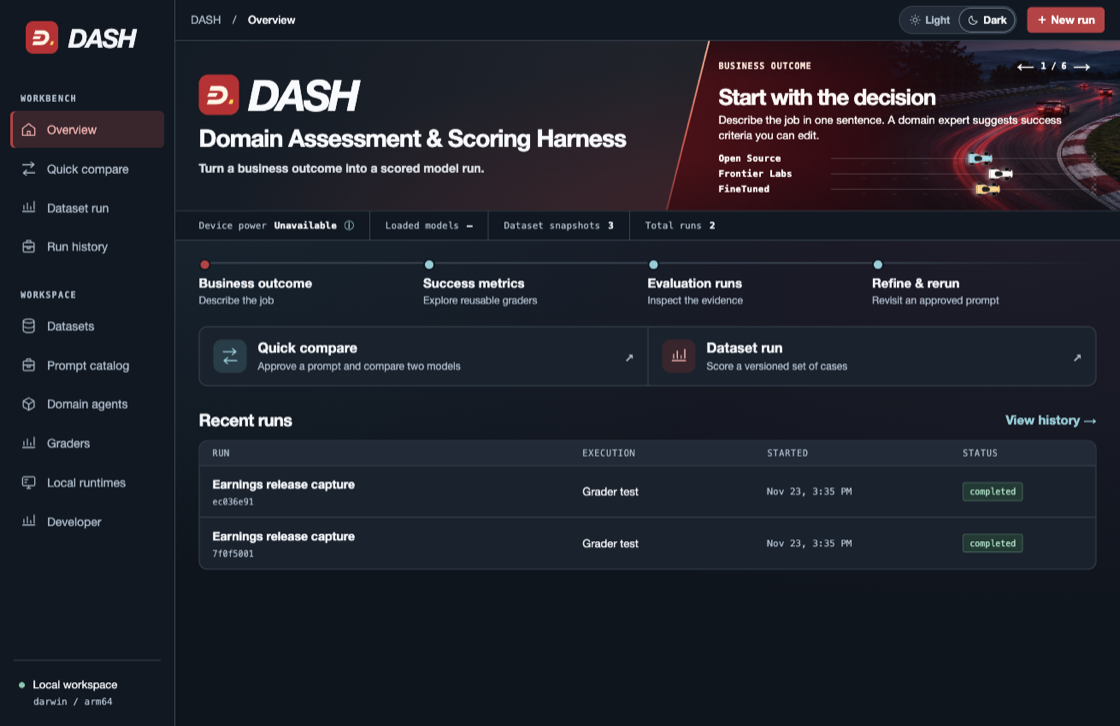
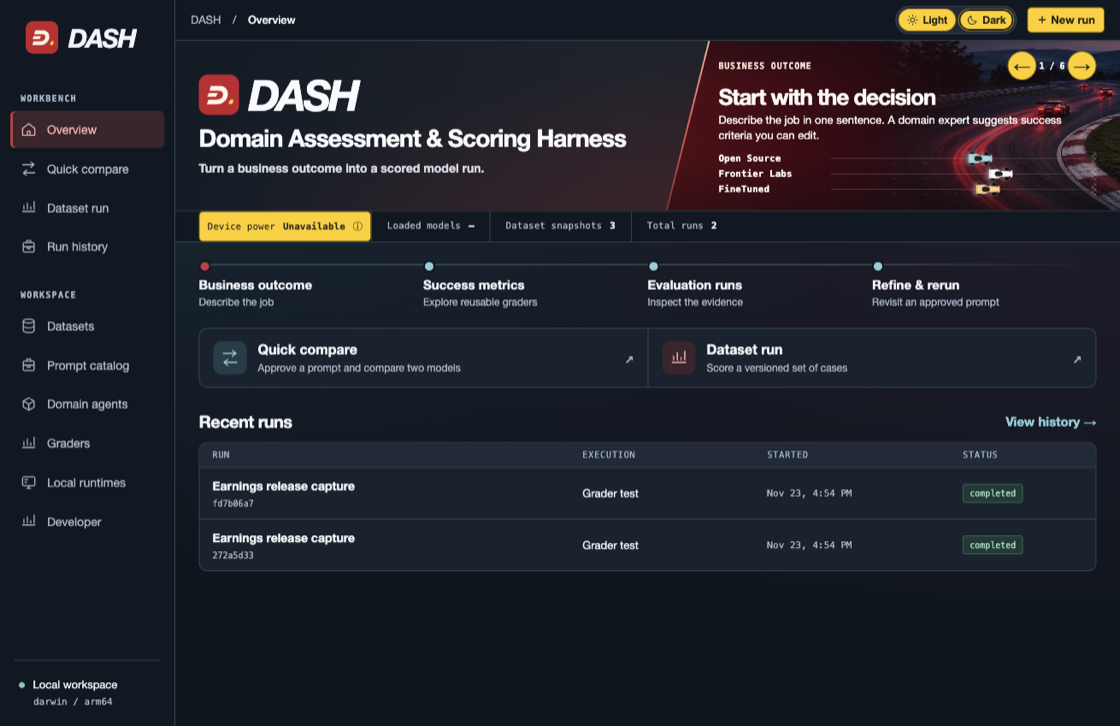
design: use racing yellow for every DASH action control (#8)

diff --git a/dash-desktop/ui/style.css b/dash-desktop/ui/style.css
@@ -8,7 +8,13 @@
   --border: light-dark(#cedbe4, #364451);
   --control-border: light-dark(#8597a7, #698092);
   --brand: light-dark(#be2446, #c13940);
-  --brand-hover: light-dark(#9e1939, #b12b32);
+  --button-fill: #ffcf00;
+  --button-hover: #ffdf55;
+  --button-active: #e8b700;
+  --button-ink: #252116;
+  --button-border: #806300;
+  --button-disabled: #ded4b0;
+  --button-disabled-ink: #534c38;
   --accent: light-dark(#276579, #88cfda);
   --accent-strong: light-dark(#164d61, #ace4eb);
   --selected: light-dark(#e4f2f5, #233d49);
@@ -59,9 +65,7 @@ textarea {
 }
 button,
 .button {
-  border: 1px solid var(--control-border);
-  color: var(--ink);
-  background: var(--surface-soft);
+  border: 1px solid var(--button-border);
   border-radius: 5px;
   min-height: 37px;
   padding: 8px 14px;
@@ -73,22 +77,25 @@ button,
   justify-content: center;
   gap: 6px;
 }
-button:hover,
-.button:hover {
-  background-color: var(--selected);
+button, .button, :where(#appearance label > span, .wf-domain label > span) {
+  color: var(--button-ink);
+  background-color: var(--button-fill);
 }
-button:disabled {
-  opacity: 0.5;
-  cursor: default;
+:where(#appearance label > span, .wf-domain label > span) { border: 1px solid var(--button-border); }
+button:enabled:hover, .button:hover, :where(#appearance, .wf-domain) label:hover input:enabled + span {
+  background-color: var(--button-hover);
 }
-.yellow {
-  background: var(--brand);
-  color: #fff;
-  border-color: transparent;
+button:enabled:active, .button:active, :where(#appearance, .wf-domain) label:active input:enabled + span {
+  background-color: var(--button-active);
 }
-.yellow:hover, .go-button:hover:enabled { background: var(--brand-hover); color: white; }
-.quiet {
-  background: transparent;
+button[aria-pressed="true"], :where(#appearance, .wf-domain) input:checked + span {
+  box-shadow: inset 0 0 0 2px currentColor;
+}
+button:disabled, :where(#appearance, .wf-domain) input:disabled + span {
+  color: var(--button-disabled-ink);
+  background-color: var(--button-disabled);
+  border-color: var(--button-disabled-ink);
+  cursor: not-allowed;
 }
 .link {
   color: var(--accent);
@@ -205,15 +212,10 @@ header {
 #appearance label { position: relative; cursor: pointer; }
 #appearance label > span {
   display: flex; align-items: center; justify-content: center; gap: 5px;
-  min-height: 27px; padding: 0 9px; border-radius: 16px; color: var(--muted);
+  min-height: 27px; padding: 0 9px; border-radius: 16px;
 }
 #appearance .icon { width: 14px; height: 14px; }
 #appearance b { font-size: 12px; font-weight: 550; }
-#appearance label:hover span { color: var(--ink); }
-#appearance input:checked + span {
-  background: var(--panel); color: var(--ink); box-shadow: 0 0 0 1px var(--control-border);
-}
-#appearance input:focus-visible + span { outline: 2px solid var(--focus); outline-offset: 1px; }
 @media (max-width: 680px) {
   .header-actions { gap: 6px; }
   #appearance b { position: absolute; clip-path: inset(50%); width: 1px; height: 1px; overflow: hidden; }
@@ -521,7 +523,6 @@ details summary {
   border-radius: 6px;
   z-index: 5;
 }
-button:focus-visible,
 a:focus-visible,
 select:focus-visible,
 textarea:focus-visible,
@@ -529,6 +530,14 @@ input:focus-visible,
 summary:focus-visible {
   outline: 2px solid var(--focus);
   outline-offset: 3px;
+}
+button:focus-visible, a.button:focus-visible, :where(#appearance, .wf-domain) input:focus-visible + span {
+  outline: 2px solid #252116;
+  outline-offset: 1px;
+  box-shadow: 0 0 0 5px #fff, inset 0 0 0 1px var(--button-ink);
+}
+button[aria-pressed="true"]:focus-visible, :where(#appearance, .wf-domain) input:checked:focus-visible + span {
+  box-shadow: 0 0 0 5px #fff, inset 0 0 0 2px var(--button-ink);
 }
 a.link:hover {
   text-decoration: underline;
@@ -644,15 +653,14 @@ progress::-webkit-progress-value {background:var(--brand);border-radius:2px}
 .grid-slot:not(.occupied) .grid-car {opacity:.27}
 .remove-model {margin-left:auto;min-height:36px;min-width:36px;padding:0}.launch-strip {align-items:stretch;gap:14px;margin:15px 0}
 .launch-strip>.field {flex:1;margin:0}.launch-strip textarea {min-height:80px}.launch-side {width:165px;display:grid;gap:6px}.launch-side .field {margin:0}
-.go-button {min-height:44px;color:white;background:var(--brand);border:0;font:italic 850 21px/1 Arial;letter-spacing:.03em}
-.go-button:disabled {background:light-dark(#e4eaee,#2b3844);color:var(--muted);opacity:1}
+.go-button {min-height:44px;font:italic 850 21px/1 Arial;letter-spacing:.03em}
 .roster-group {display:grid;grid-template-columns:110px 1fr;border-top:1px solid var(--border);padding:9px 0;gap:12px}
 .group-name {align-self:start;gap:7px;padding-block:12px}.group-name strong {font-size:13px}.group-name small {font:11px var(--mono);color:var(--muted)}
 .roster-list {display:grid;grid-template-columns:repeat(auto-fill,minmax(min(195px,100%),1fr));gap:5px}
-.roster-model {min-width:0;min-height:54px;text-align:left;justify-content:flex-start;background:var(--panel);border:1px solid var(--border);border-radius:7px;padding:6px 9px;gap:9px}
+.roster-model {min-width:0;min-height:54px;text-align:left;justify-content:flex-start;border-radius:7px;padding:6px 9px;gap:9px}
 .roster-model .model-logo {width:28px;height:28px;border-radius:4px}.roster-model .model-logo img {width:21px;height:21px}
-.roster-model b {font-size:12px;line-height:1.2}.roster-model small {font-size:10px;margin-top:3px}.roster-model i {margin-left:auto}
-.roster-model[aria-pressed=true]{background:var(--selected);border-color:var(--accent);color:var(--accent-strong)}.roster-empty {align-self:center}
+.roster-model b {font-size:12px;line-height:1.2}.roster-model small {font-size:10px;margin-top:3px;color:inherit}.roster-model i {margin-left:auto}
+.roster-empty {align-self:center}
 .visually-hidden {position:absolute;clip-path:inset(50%);width:1px;height:1px;overflow:hidden}
 @media(max-width:790px){.starting-grid{grid-template-columns:1fr}.roster-group{grid-template-columns:1fr;gap:0}.group-name{padding:2px 0 6px}}
 @media(max-width:680px){.launch-strip{flex-direction:column}.launch-side{width:100%;grid-template-columns:1fr 90px}}

diff --git a/dash-desktop/ui/prompt-guide.css b/dash-desktop/ui/prompt-guide.css
@@ -4,18 +4,16 @@
 .prompt-composer .field>span {padding:10px 13px 0;font-size:13px;color:var(--ink)}
 .prompt-composer textarea {width:100%;min-height:85px;border:0;border-radius:0;background:transparent;outline-offset:-3px;resize:vertical;padding:7px 13px 12px;line-height:1.5}
 .compose-footer {display:flex;gap:10px;align-items:flex-start;justify-content:space-between;border-top:1px solid var(--border);padding:6px 7px 6px 12px}
-.composer-actions .go-button {flex:0 0 85px;min-height:38px;align-self:start;color:white}
-.composer-actions .go-button:disabled {color:var(--muted)}
+.composer-actions .go-button {flex:0 0 85px;min-height:38px;align-self:start}
 .prompt-guide {flex:1;min-width:0;align-self:center}
-.guide-tools>button,.guide-response button,.prompt-guide [data-guide=retry] {background:none;border:0;min-height:32px;color:var(--ink);padding:3px 0;font-size:12px}
-.guide-tools [aria-pressed=false] {color:var(--muted)}
-.guide-tools .icon {width:15px;height:15px;color:var(--accent)}
-.guide-tools span,.guide-source {font:10px/1.4 var(--mono);color:var(--muted)}
-.guide-tools span {border-left:1px solid var(--border);padding-left:7px}
+.guide-tools>button,.guide-response button,.prompt-guide [data-guide=retry] {min-height:32px;padding:3px 8px;font-size:12px}
+.guide-tools .icon {width:15px;height:15px}
+.guide-tools span,.guide-source {font:10px/1.4 var(--mono)}
+.guide-source {color:var(--muted)}
+.guide-tools span {border-left:1px solid var(--button-border);padding-left:7px}
 .guide-response {padding:3px 0 5px}
 .guide-response p {margin:4px 0 6px;color:var(--ink);font-size:14px;line-height:1.45}
-.guide-response [data-guide=apply],.guide-response [data-guide=answer],.prompt-guide [data-guide=retry] {color:var(--accent)}
-.guide-response [data-guide=dismiss] {margin-left:10px;color:var(--muted)}
+.guide-response [data-guide=dismiss] {margin-left:10px}
 .guide-answer {display:block}
 .guide-answer input {width:100%;border:1px solid var(--control-border);border-radius:3px;background:var(--surface-soft);color:var(--ink);padding:8px}
 #guide-body small {font-size:12px;color:var(--muted)}
@@ -27,8 +25,7 @@ body:has(.compare-console) #screen {max-width:none;margin:0;padding:18px clamp(1
 .compare-console #quick-models {margin:0}
 body:has(.compare-console) #setup {padding:0}
 .model-picker .grid-slot {padding:10px 13px;min-height:64px}
-.choose-slot {border:0;background:none;padding:0;min-height:30px;font-size:16px;font-weight:600;line-height:1.2;color:var(--ink);gap:8px}
-.choose-slot span {color:var(--accent)}
+.choose-slot {padding:0 6px;min-height:30px;font-size:16px;font-weight:600;line-height:1.2;gap:8px}
 .compare-workarea {display:grid;grid-template-columns:minmax(245px, .82fr) minmax(0,1.18fr);gap:clamp(12px,1.5vw,22px);align-items:start;margin-top:18px;border-top:1px solid var(--border);padding-top:14px}
 .compare-roster,.compare-draft {min-width:0}
 .compare-roster .field {margin:0 0 8px}

diff --git a/dash-desktop/ui/workflow.css b/dash-desktop/ui/workflow.css
@@ -24,9 +24,6 @@ body:has(.wf-page) #screen {margin:0;max-width:none;padding:clamp(16px,2.2vw,32p
 .wf-panel .field input,.wf-panel .field textarea {width:100%;padding:11px 12px}
 .wf-measures {margin:0 0 16px;padding:13px 0 0;border-top:1px solid var(--border)}
 .wf-measure-head {display:flex;align-items:center;justify-content:space-between;flex-wrap:wrap;gap:8px;margin:0 0 10px}
-.wf-measure-head button {color:var(--accent-strong);border-color:light-dark(#8bb4c0,#5e8594);background:var(--selected)}
-.wf-measure-head button:hover:enabled {background:light-dark(#cce4eb,#314d5b)}
-.wf-measure-head button:focus-visible {outline:2px solid var(--focus);outline-offset:2px}
 .wf-measure-grid {display:grid;grid-template-columns:repeat(auto-fit,minmax(min(100%,245px),1fr));gap:12px}
 .wf-measures .field {margin:0}
 .wf-measures .wf-hint {display:block;margin-top:6px}
@@ -40,9 +37,7 @@ body:has(.wf-page) #screen {margin:0;max-width:none;padding:clamp(16px,2.2vw,32p
 .wf-domain>div {display:flex;gap:6px;flex-wrap:wrap}
 .wf-domain label {cursor:pointer;position:relative}
 .wf-domain input {position:absolute;opacity:0;width:1px;height:1px}
-.wf-domain span {display:inline-flex;align-items:center;min-height:36px;padding:6px 12px;border:1px solid var(--control-border);border-radius:4px;color:var(--muted);font-size:13px}
-.wf-domain input:checked+span {color:var(--ink);background:var(--selected);border-color:var(--accent)}
-.wf-domain input:focus-visible+span {outline:2px solid var(--focus);outline-offset:2px}
+.wf-domain span {display:inline-flex;align-items:center;min-height:36px;padding:6px 12px;border-radius:4px;font-size:13px}
 .wf-actions {border-top:1px solid var(--border);padding-top:14px;margin-top:6px}
 .wf-hint,.wf-progress,.wf-actions small,.wf-approved small,.wf-run-plan>small,.wf-options small {color:var(--muted);font-size:13px;line-height:1.5}
 .wf-error {padding:12px 14px;background:var(--danger-bg);border-left:3px solid var(--danger);color:var(--danger-ink);margin-bottom:12px;white-space:pre-wrap;overflow-wrap:anywhere}
@@ -85,7 +80,7 @@ body:has(.wf-page) #screen {margin:0;max-width:none;padding:clamp(16px,2.2vw,32p
 }
 .wf-examples {display:flex;align-items:center;gap:6px;flex-wrap:wrap;margin:-4px 0 18px}
 .wf-examples small {font-size:12px;color:var(--muted);margin-right:4px}
-.wf-examples button {padding:4px 10px;min-height:30px;font-size:12px;background:transparent;color:var(--accent);border-color:var(--control-border)}
+.wf-examples button {padding:4px 10px;min-height:30px;font-size:12px}
 .wf-page .wf-role-grid .wf-options-body {padding:8px 0 0}
 @media (pointer:coarse) {.wf-examples button {min-height:44px}}
 .wf-panel #wf-prompt,.wf-panel #wf-review-metrics {field-sizing:content;min-height:5.4rem;max-height:min(40vh,22rem)}

diff --git a/dash-desktop/ui/overview.css b/dash-desktop/ui/overview.css
@@ -91,23 +91,15 @@ body:has(.overview) .desk > header .button {
   flex: none;
   display: flex;
   align-items: center;
-  gap: 1px;
+  gap: 3px;
 }
 .capability-controls button {
   width: 34px;
   height: 34px;
   min-height: 0;
   padding: 0;
-  color: var(--track-paper);
-  background: transparent;
-  border: 1px solid transparent;
   border-radius: 50%;
   font: 500 20px/1 Arial, sans-serif;
-}
-.capability-controls button:hover, .capability-controls button:focus-visible {
-  background: #ffffff12;
-  border-color: #ffffff64;
-  outline-color: var(--track-paper);
 }
 .capability-position { font: 550 10px/1 var(--mono); white-space: nowrap; color: var(--track-paper); }
 .capability-controls [data-carousel="playback"] span {
@@ -258,14 +250,14 @@ body:has(.overview) .desk > header .button {
   padding: 9px 18px;
   border-inline-start: 1px solid var(--border);
   font: 11px/1.4 var(--mono);
-  color: var(--muted);
 }
-.timing-strip > a:hover, .device-stat:hover { background: var(--selected); }
+.timing-strip > a { color: var(--muted); }
+.timing-strip > a:hover { background: var(--selected); }
 .timing-strip .device-stat {
-  height: 100%; padding-left: 0; min-height: 0; background: transparent;
-  border: 0; border-radius: 0; anchor-name: --device-stat;
+  height: 100%; min-height: 0; padding-inline: 9px;
+  border-inline-start-color: var(--button-border); anchor-name: --device-stat;
 }
-.device-stat span { color: var(--accent); }
+.timing-strip .device-stat strong { color: inherit; }
 #device-details {
   position: fixed; inset: auto; position-anchor: --device-stat; left: anchor(left); top: anchor(bottom);
   width: min(305px, calc(100vw - 78px)); margin: 0; padding: 14px 16px;

diff --git a/dash-desktop/ui/evaluation.css b/dash-desktop/ui/evaluation.css
@@ -5,7 +5,6 @@
 .qc-grading small,.qc-grade-choice small,.er-metric-head small,.er-score-line small,.er-policy small {display:block;color:var(--muted);font-size:12px;line-height:1.5}
 .qc-grading .link {font-size:13px}
 .qc-outcome {background:var(--surface-soft);border-left:3px solid var(--accent);margin-top:13px;padding:12px 14px}
-.qc-outcome [aria-pressed=true] {border-color:var(--accent);color:var(--accent-strong)}
 .qc-rubric-options,.qc-saved,.er-policy,.er-evidence {margin-top:12px}
 .qc-saved {border:0;padding:0;min-width:0}
 .qc-grading summary,.er-report summary {cursor:pointer;width:fit-content;font-size:13px;font-weight:600}

diff --git a/docs/design/README.md b/docs/design/README.md
@@ -6,6 +6,8 @@ ImageGen received the following prompt.
 
 > Wide 3:1 motorsport editorial photograph for a compact banner. A sweeping racetrack turn at blue hour, viewed from above. Scarlet taillight ribbons trace the apex past ivory-and-red kerbing on the right. Leave the left half in quiet deep burgundy shadow for white type. Real asphalt, restrained film grain, no lettering or logos.
 
+Use warm racing yellow (`#ffcf00`) with charcoal lettering (`#252116`) for buttons in both themes. Selected controls have an inset stroke, and disabled buttons use a muted sand fill.
+
 The [light](overview-light.png) and [dark](overview-dark.png) screenshots show the desktop workbench using an isolated test profile.
 
 The [original prototype](DASH_Design_Prototype.html), [approved preview](DASH_Design_Preview.png), and [in-progress animation](DASH_Run_Animation.gif) document the first design. The [logo concept sheet](archive/Eval_Bench_Logo_Concepts.png) is archived exploration.
